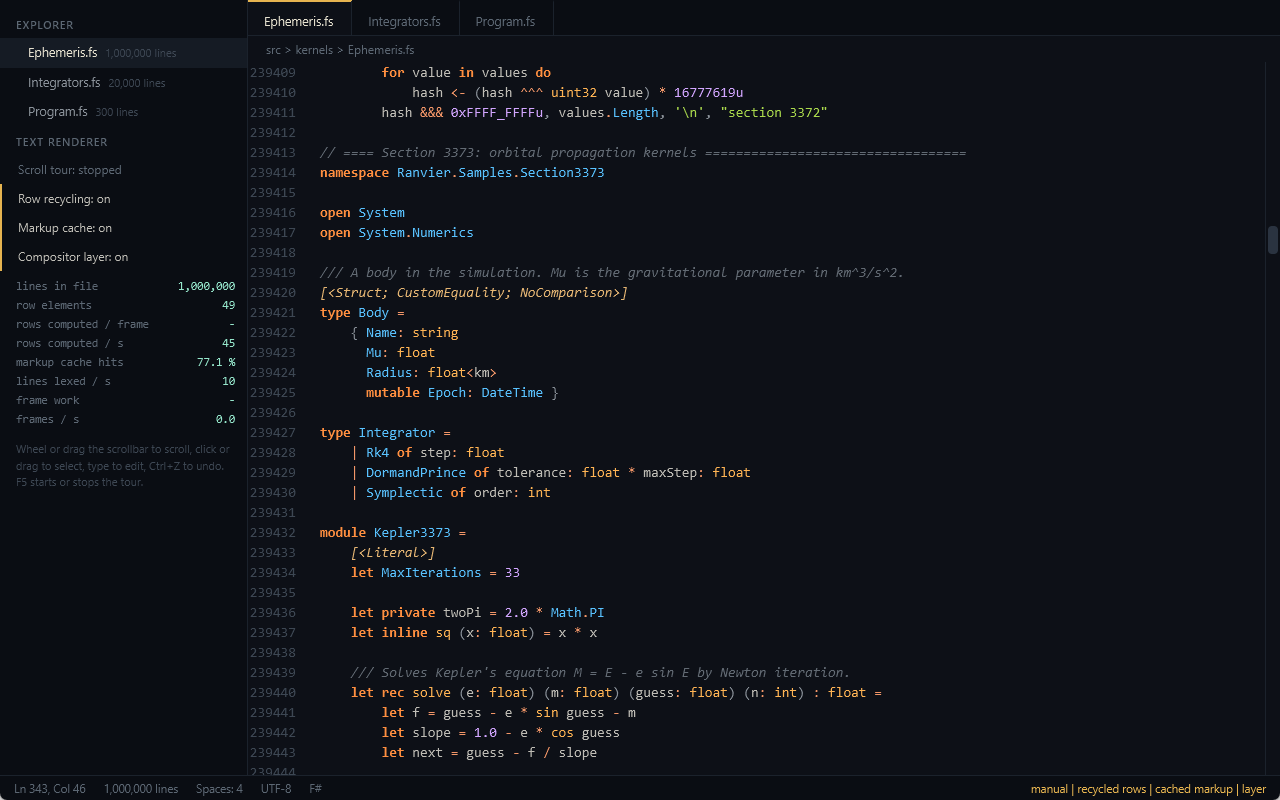
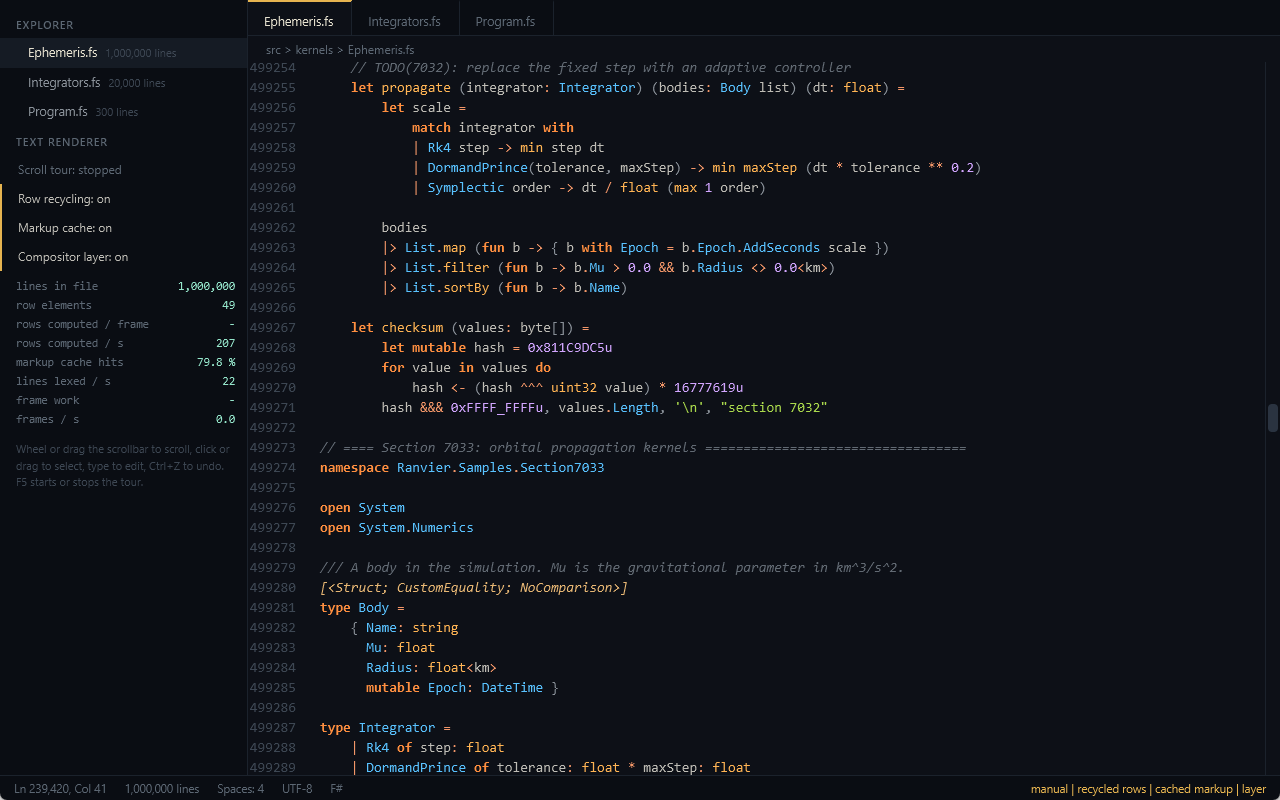
test: the real pointer through Windows, in a shown window, with the user's say
- Sample --tour --shown <picture> --pointer: the desktop's real pointer is put on the text, pressed, dragged
  and released, the wheel is turned, and the scrollbar's track is pressed, all through Windows. Before each
  click the run checks that the window under the pointer is the sample's; it sends no key and puts the
  pointer back.
- The one such run: 25 checks held in 6.3 s. The real press and drag selected the text between the two
  points, three notches of the real wheel scrolled 120 CSS px, and a press half-way down the scrollbar's
  track moved the text to 49.9% of the file.
- docs/shown-window.png is the screen's copy from that run.

Gate: 112 state tests on each framework, on the untraced and the traced core, and 32 view tests pass; rfs
check 0 errors; 14 of 14 hot reload steps; 19 of 19 hidden tour checks.

diff --git a/docs/ACCEPTANCE.md b/docs/ACCEPTANCE.md
@@ -319,21 +319,28 @@ smoke windows are created hidden"; task 8 names a hidden window for its spike an
 `--shot` and has `--bench`, `--memory` and `--load` "run to completion hidden". No step of the plan shows a
 window.
 
-**In a shown window, with your say (2026-11-19).** `samples/EditorShowcase --tour --shown` ran once with the
-sample's window on the desktop, 1280 x 800 pixels at (320, 128), and closed it 5.9 s after the run started
-(**measured here**, one run, 21 checks held, exit code 0):
+**In a shown window, with your say (2026-11-19), twice.** `samples/EditorShowcase --tour --shown` ran with the
+sample's window on the desktop, 1280 x 800 pixels at (320, 128), and closed it when the run ended. The first run
+held 21 checks in 5.9 s. The second, with `--pointer`, also moved the desktop's real pointer through Windows and
+held 25 checks in 6.3 s (**measured here**, one run each, exit code 0; the figures below are the second run's
+unless they say otherwise):
 
-- The tour ran on the frames the app asked for, and then on the window's own loop for 2 s: 167.4 frames a second
-  by the app's count, on a display that reports 164.9 Hz. The same loop with the window hidden ran 107.8 a
-  second, one frame every one and a half refreshes.
-- A click on the tour's button stopped it and the app came to rest; the wheel, a click in the text and a typed
-  key did what they do.
-- A press, a drag and a release put on SDL's queue selected the text between the two points; three notches of
-  the wheel scrolled 120 CSS px; a press a quarter of the way down the scrollbar's track moved the text to 23.9%
-  of the file.
-- A copy of the screen where the window was agrees with what the window composited in 99.996% of its pixels
-  (within 8 of 255 on each channel). The copy is `shown-window.png`, beside this file.
-- F5 started the tour again, and a click on a tab opened its file.
+- **Frames on the display.** Left to the window's own loop for 2 s, the tour ran at 163.9 frames a second by the
+  app's count (167.4 in the first run), on a display that reports 164.9 Hz. The same loop with the window hidden
+  ran 107.8 a second, one frame every one and a half refreshes.
+- **The real pointer, through Windows.** The pointer was put on the text, the left button pressed, the pointer
+  moved, and the button released: the text between the two points was selected. Three notches of the real wheel
+  scrolled 120 CSS px. A real press half-way down the scrollbar's track moved the text to 49.9% of the file. The
+  run checks before each click that the window under the pointer is the sample's, and afterwards the pointer was
+  back where it had been.
+- **SDL's queue.** A press, a drag and a release put on SDL's queue selected the text between the two points;
+  three notches of the wheel scrolled 120 CSS px; a press a quarter of the way down the scrollbar's track moved
+  the text to 23.9% of the file.
+- **The screen.** A copy of the screen where the window was agrees with what the window composited in 99.996% of
+  its pixels (within 8 of 255 on each channel). The copy is `shown-window.png`, beside this file.
+- **The app.** A click on the tour's button stopped it and the app came to rest; a click in the text and a typed
+  key did what they do; F5 started the tour again; a click on a tab opened its file. These went in through the
+  host: no key was sent through Windows, where a key goes to whichever window has the keyboard.
 
 **From the desktop's events inward, the paths a shown window uses ran too**, in windows created hidden:
 
@@ -379,8 +386,8 @@ sample's window on the desktop, 1280 x 800 pixels at (320, 128), and closed it 5
 
 **Outside the plan, and not run:**
 
-- The operating system's own delivery of mouse and key input to SDL. The events were put on SDL's queue; moving
-  your real pointer from a script was not in what you agreed to.
+- Keys sent through Windows. The mouse and the wheel were (above); a key sent that way goes to whichever window
+  has the keyboard, which a script cannot promise is the sample's.
 - A Fable build, packaging and CI: not in phase 1.
 - Atelier was not read beyond `Atelier.Text` and its tests, and was not built or run.
 
@@ -428,4 +435,5 @@ pass.
 each framework.
 
 `samples/EditorShowcase --tour`: 19 of 19 checks, hidden. `--tour --shown <picture>` shows the window for the
-length of the run; it is not part of a gate, and ran once.
+length of the run, and with `--pointer` moves the real pointer inside it. Neither is part of a gate: each ran
+once, with your say.

diff --git a/README.md b/README.md
@@ -47,6 +47,7 @@ dotnet run -c Release --project samples/EditorShowcase -- --profile    # frame c
 dotnet run -c Release --project samples/EditorShowcase -- --writes     # the page writes of a keystroke and a scroll
 dotnet run -c Release --project samples/EditorShowcase -- --tour       # the app as its window runs it, hidden
 dotnet run -c Release --project samples/EditorShowcase -- --tour --shown out.png   # the same, window shown
+dotnet run -c Release --project samples/EditorShowcase -- --tour --shown out.png --pointer   # and the real pointer moved
 dotnet run -c Release --project samples/EditorShowcase -- --shot out.png
 ```
 
